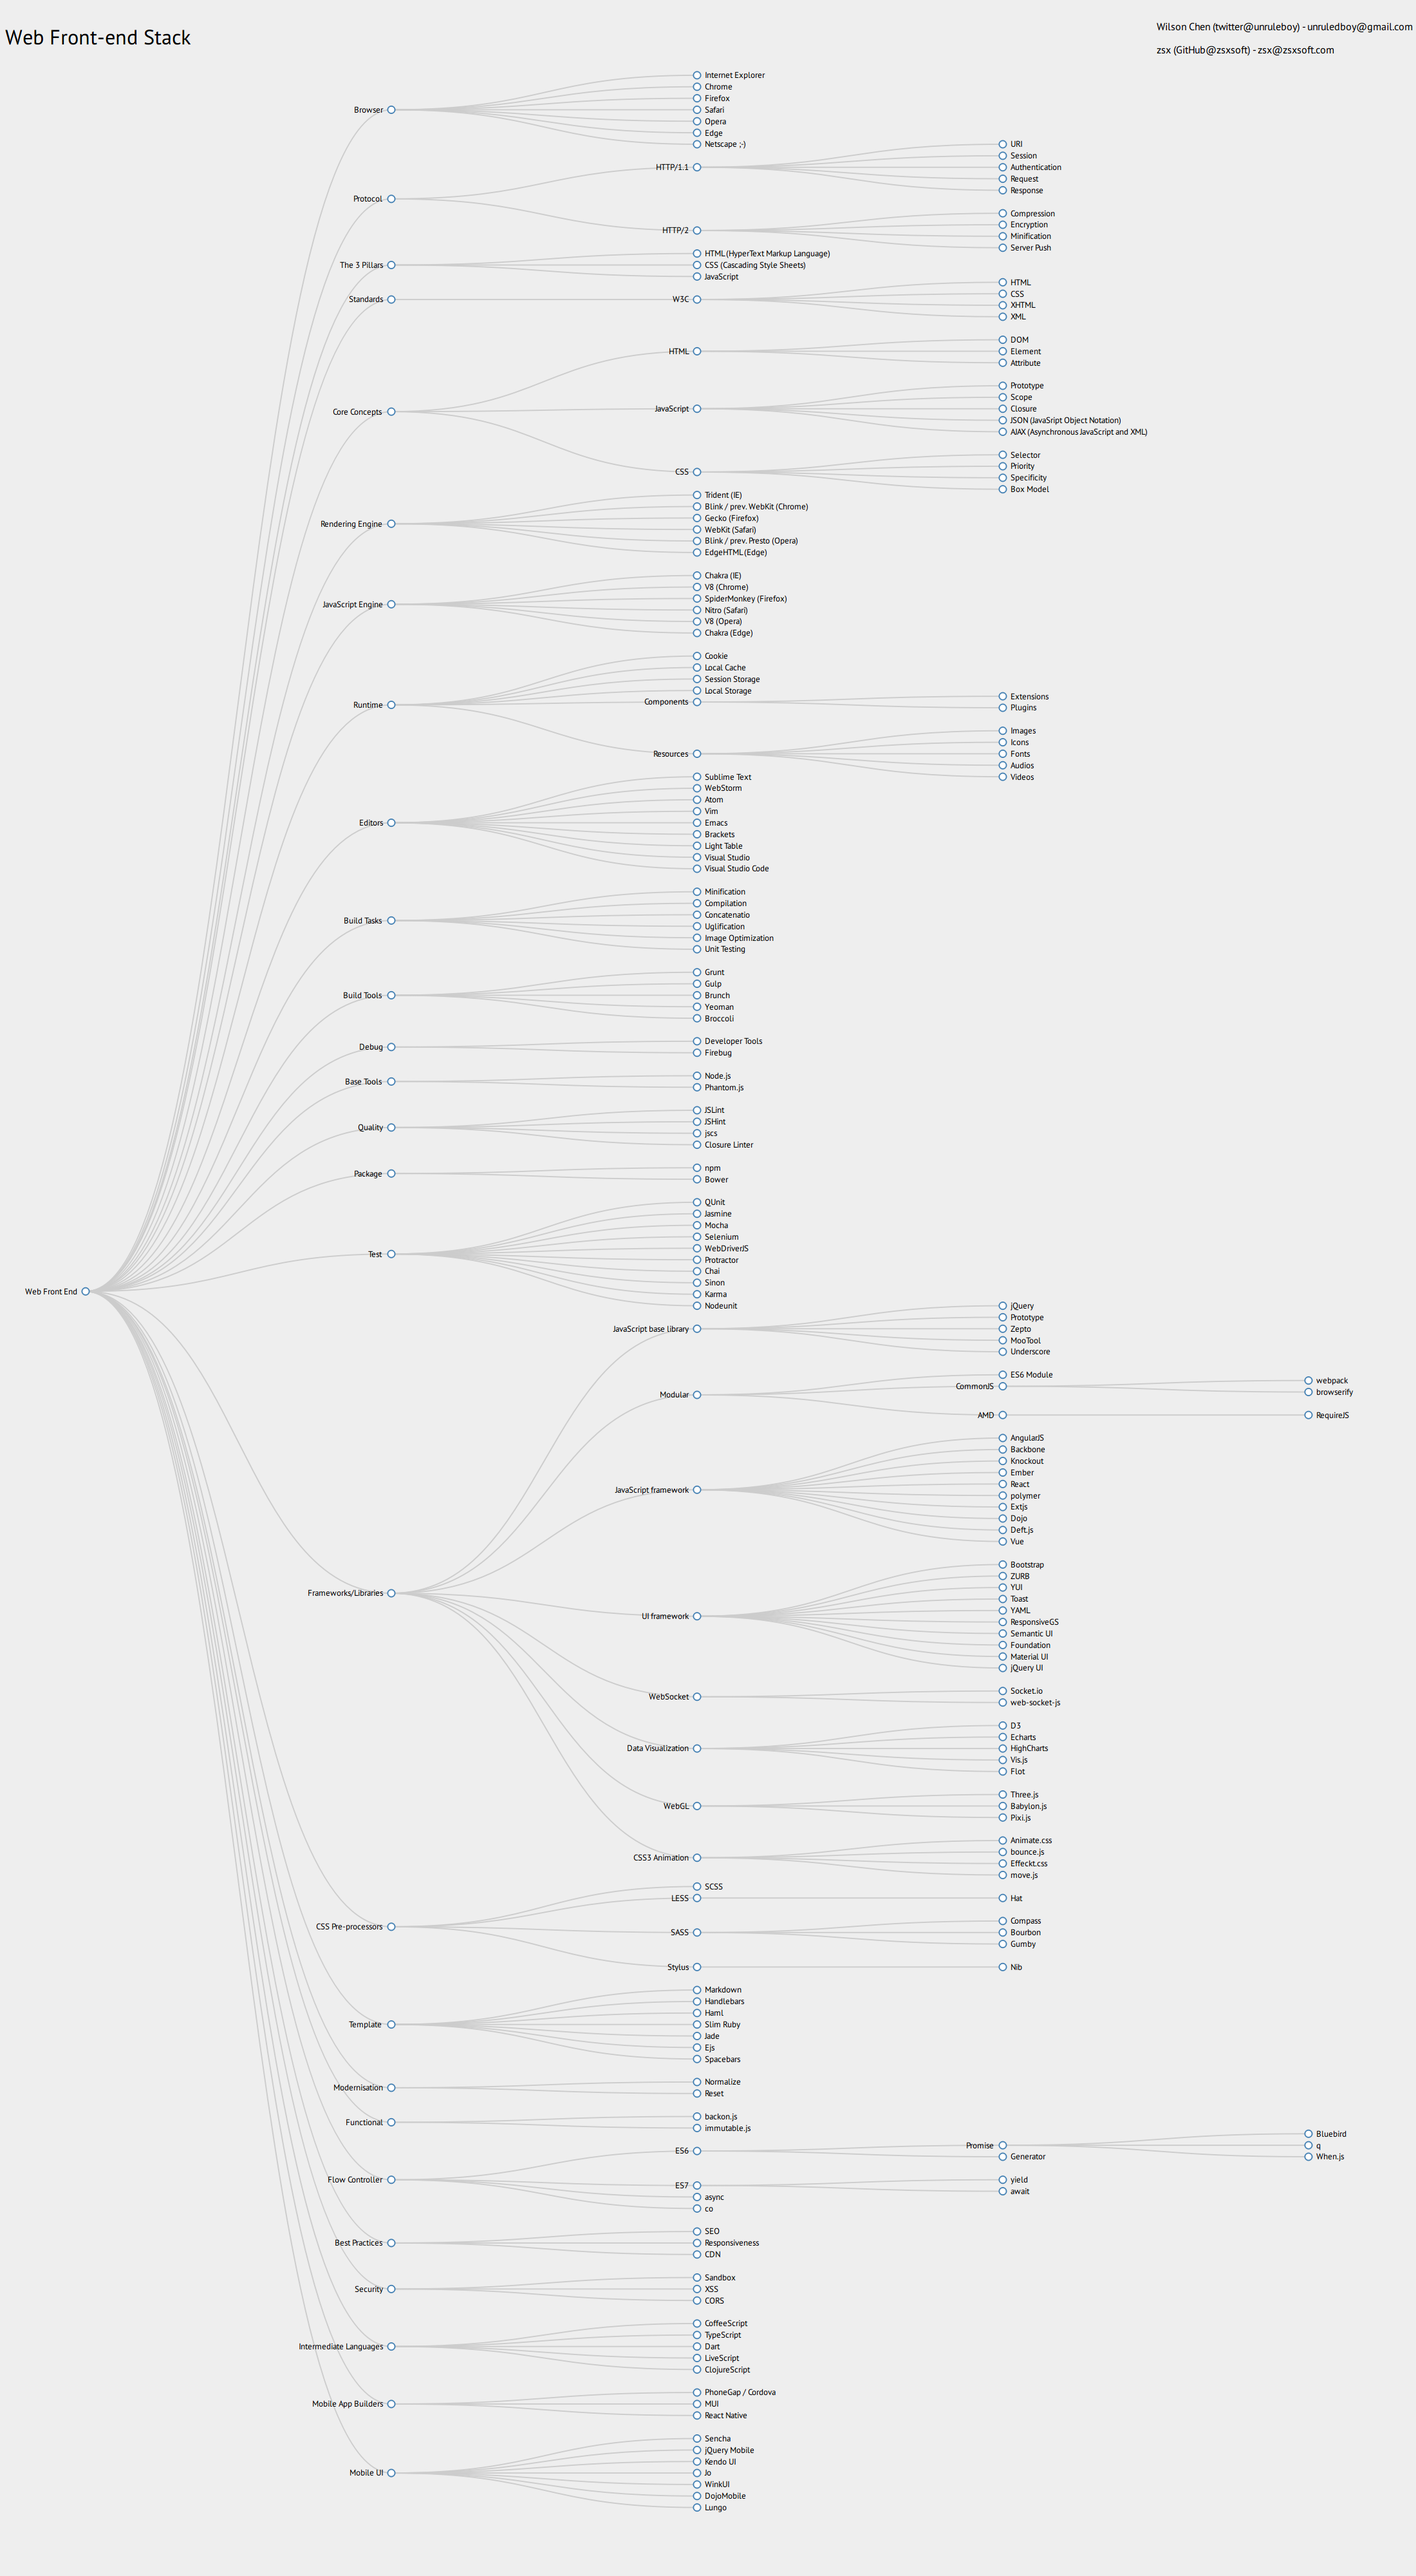
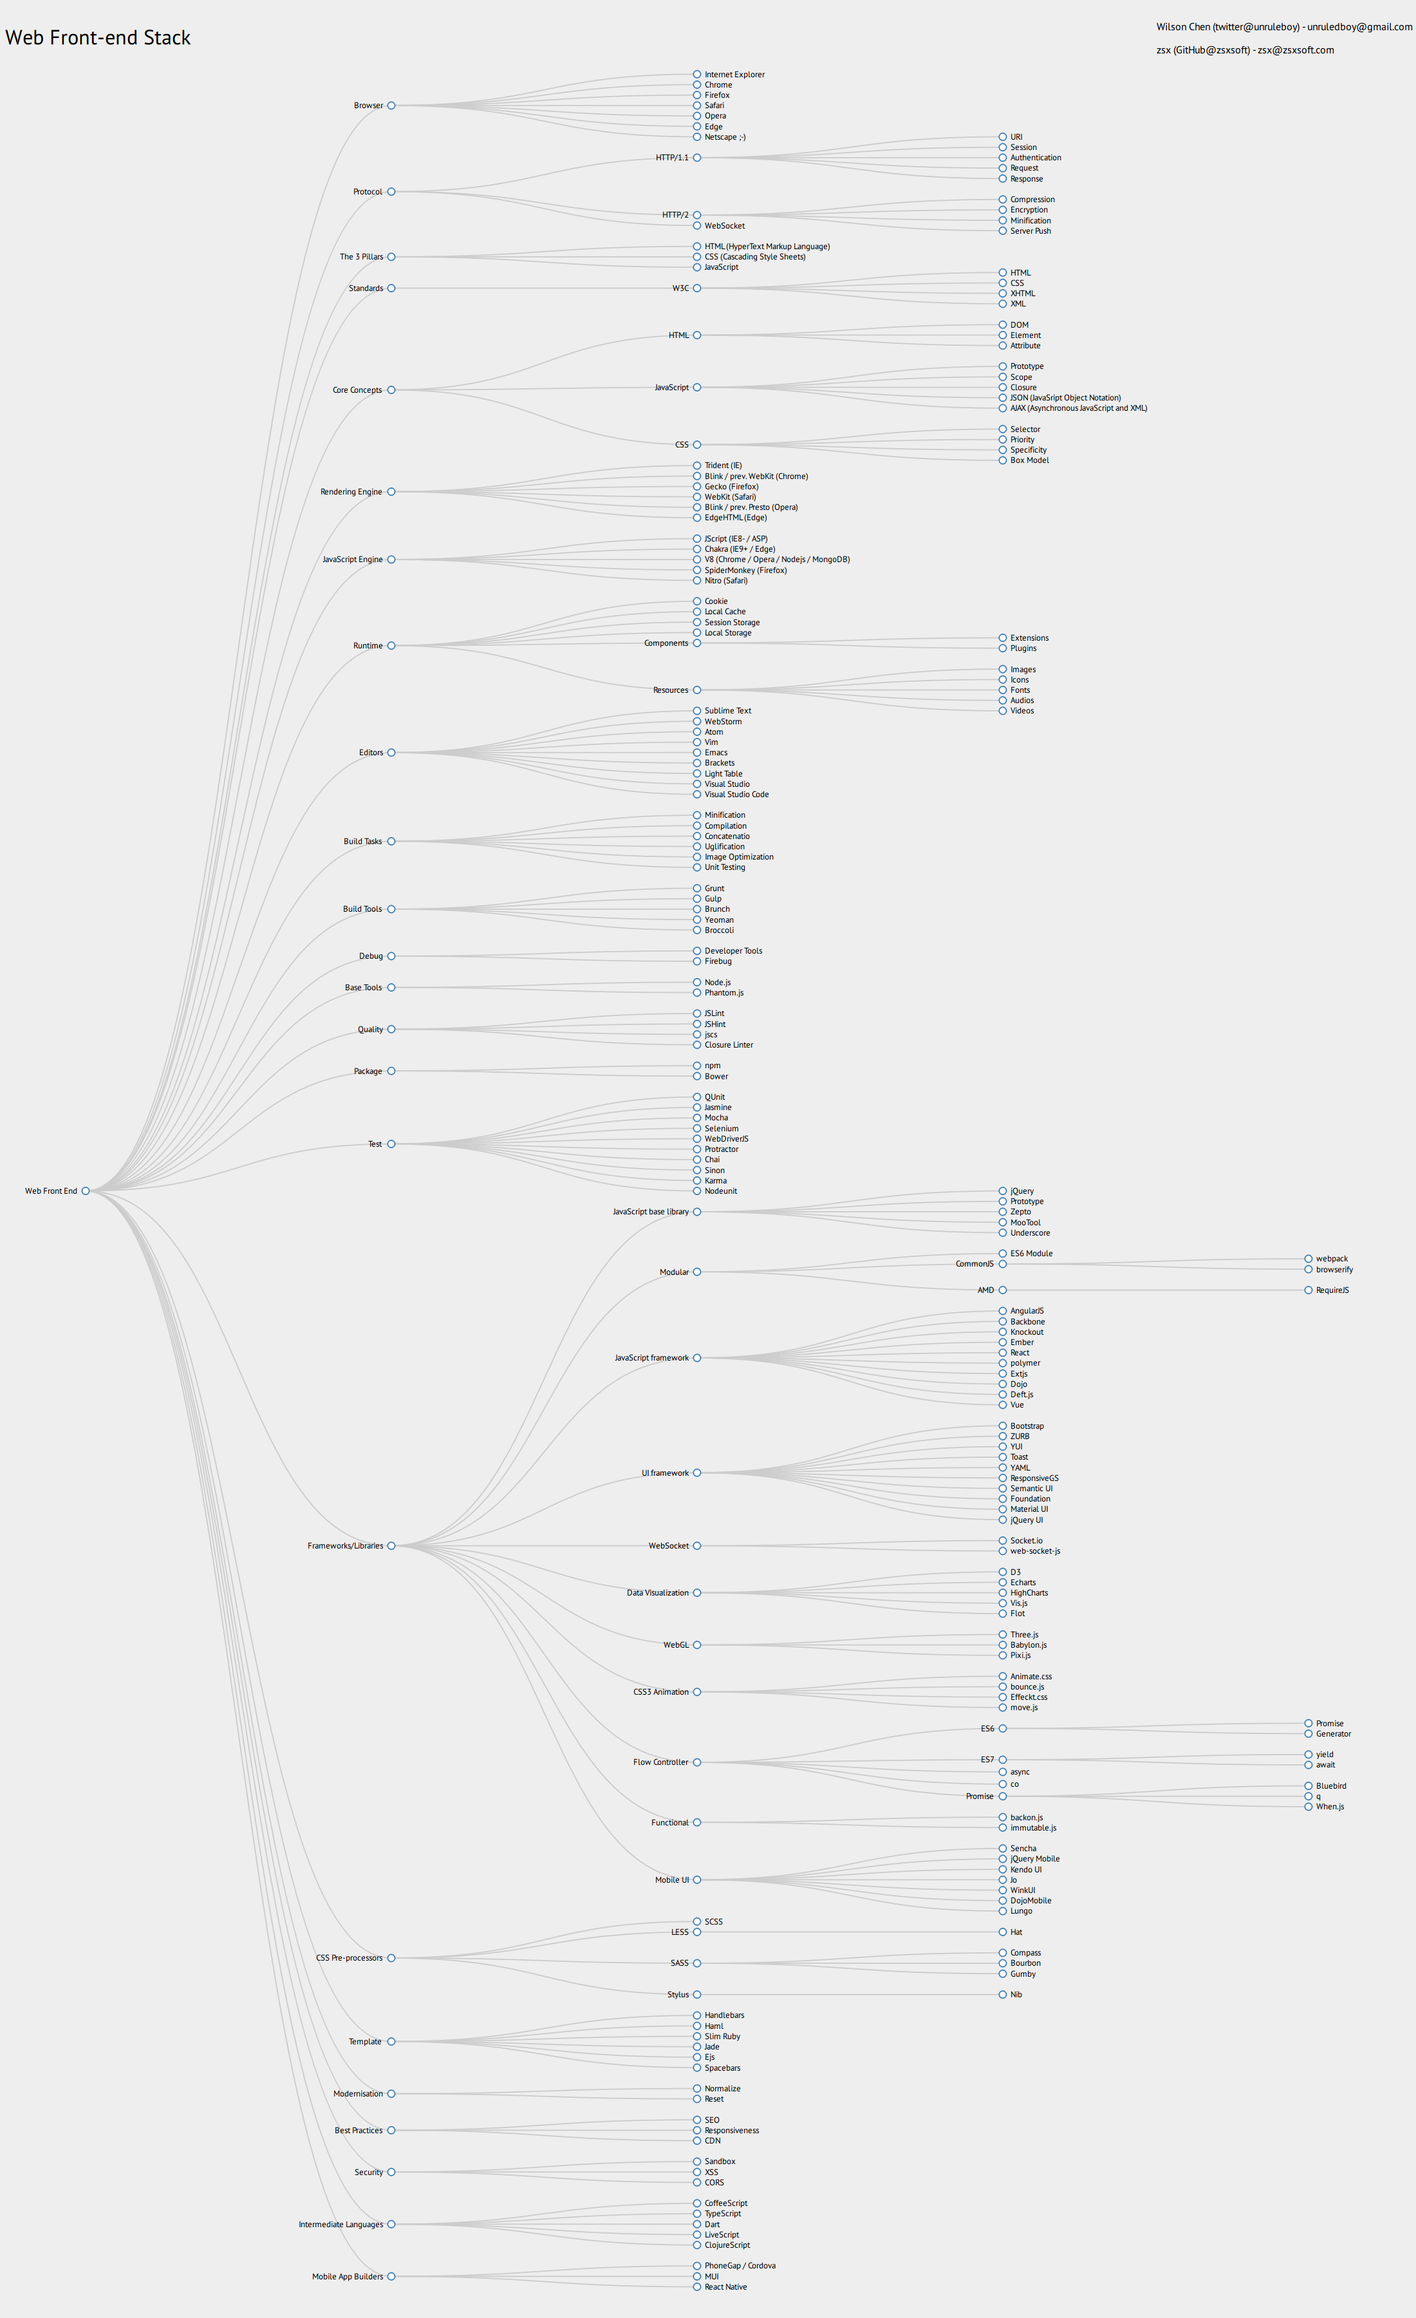
Fix

diff --git a/index.js b/index.js
@@ -1,3 +1,7 @@
+/**
+ * Builder
+ * @author zsx<zsx@zsxsoft.com>
+ */
 var express = require('express');
 var path = require('path');
 var Promise = require("bluebird");
@@ -9,7 +13,7 @@ var port = process.env.PORT || 3000;
 var httpServer = "http://127.0.0.1:" + port + "/";
 
 var pageWidth = 2200; // Magic number!
-var pageHeight = 4000;
+var pageHeight = 3600;
 
 String.prototype.repeat = function(count) {
     var ret = [];

diff --git a/README.md b/README.md
@@ -80,6 +80,7 @@ https://rawgit.com/unruledboy/WebFrontEndStack/master/ux/WebFrontEndStack.htm
 			- Encryption
 			- Minification
 			- Server Push
+		- WebSocket
 	- The 3 Pillars
 		- HTML (HyperText Markup Language)
 		- CSS (Cascading Style Sheets)
@@ -114,12 +115,11 @@ https://rawgit.com/unruledboy/WebFrontEndStack/master/ux/WebFrontEndStack.htm
 		- Blink / prev. Presto (Opera)
 		- EdgeHTML (Edge)
 	- JavaScript Engine
-		- Chakra (IE)
-		- V8 (Chrome)
+		- JScript (IE8- / ASP)
+		- Chakra (IE9+ / Edge)
+		- V8 (Chrome / Opera / Nodejs / MongoDB)
 		- SpiderMonkey (Firefox)
 		- Nitro (Safari)
-		- V8 (Opera)
-		- Chakra (Edge)
 	- Runtime
 		- Cookie
 		- Local Cache
@@ -236,6 +236,30 @@ https://rawgit.com/unruledboy/WebFrontEndStack/master/ux/WebFrontEndStack.htm
 			- bounce.js
 			- Effeckt.css
 			- move.js
+		- Flow Controller
+			- ES6
+				- Promise
+				- Generator
+			- ES7
+				- yield
+				- await
+			- async
+			- co
+			- Promise
+				- Bluebird
+				- q
+				- When.js
+		- Functional
+			- backon.js
+			- immutable.js
+		- Mobile UI
+			- Sencha
+			- jQuery Mobile
+			- Kendo UI
+			- Jo
+			- WinkUI
+			- DojoMobile
+			- Lungo
 	- CSS Pre-processors
 		- SCSS
 		- LESS
@@ -247,7 +271,6 @@ https://rawgit.com/unruledboy/WebFrontEndStack/master/ux/WebFrontEndStack.htm
 		- Stylus
 			- Nib
 	- Template
-		- Markdown
 		- Handlebars
 		- Haml
 		- Slim Ruby
@@ -257,21 +280,6 @@ https://rawgit.com/unruledboy/WebFrontEndStack/master/ux/WebFrontEndStack.htm
 	- Modernisation
 		- Normalize
 		- Reset
-	- Functional
-		- backon.js
-		- immutable.js
-	- Flow Controller
-		- ES6
-			- Promise
-				- Bluebird
-				- q
-				- When.js
-			- Generator
-		- ES7
-			- yield
-			- await
-		- async
-		- co
 	- Best Practices
 		- SEO
 		- Responsiveness
@@ -290,13 +298,5 @@ https://rawgit.com/unruledboy/WebFrontEndStack/master/ux/WebFrontEndStack.htm
 		- PhoneGap / Cordova
 		- MUI
 		- React Native
-	- Mobile UI
-		- Sencha
-		- jQuery Mobile
-		- Kendo UI
-		- Jo
-		- WinkUI
-		- DojoMobile
-		- Lungo
 
 <!--BUILD_END-->
